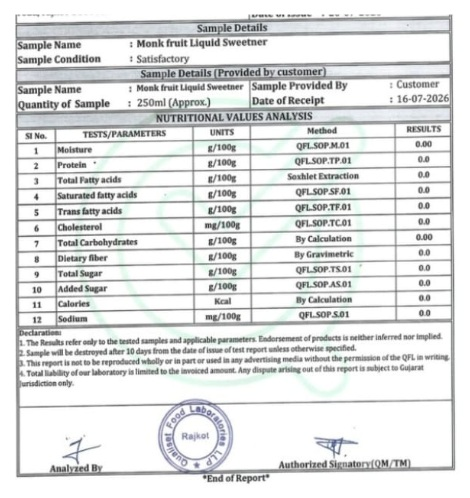
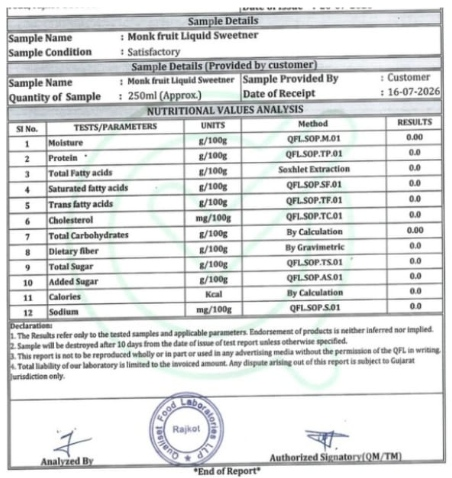
update: replace COA report image with latest cropped version

diff --git a/frontend/src/assets/reports/reportData.ts b/frontend/src/assets/reports/reportData.ts
@@ -2,5 +2,5 @@
 export const COA_DROPS_PDF_URL = "/assets/reports/COA_Drops.pdf";
 export const LABEL_DROPS_PDF_URL = "/assets/reports/Label_Drops.pdf";
 
-export const LAB_TEST_REPORT_HD_IMAGE = "/assets/reports/COA_Drops.jpg";
+export const LAB_TEST_REPORT_HD_IMAGE = "/assets/reports/COA_Drops.jpg?v=20260923";
 export const NUTRITION_FACTS_HD_IMAGE = "/assets/reports/Label_Drops.jpg";
